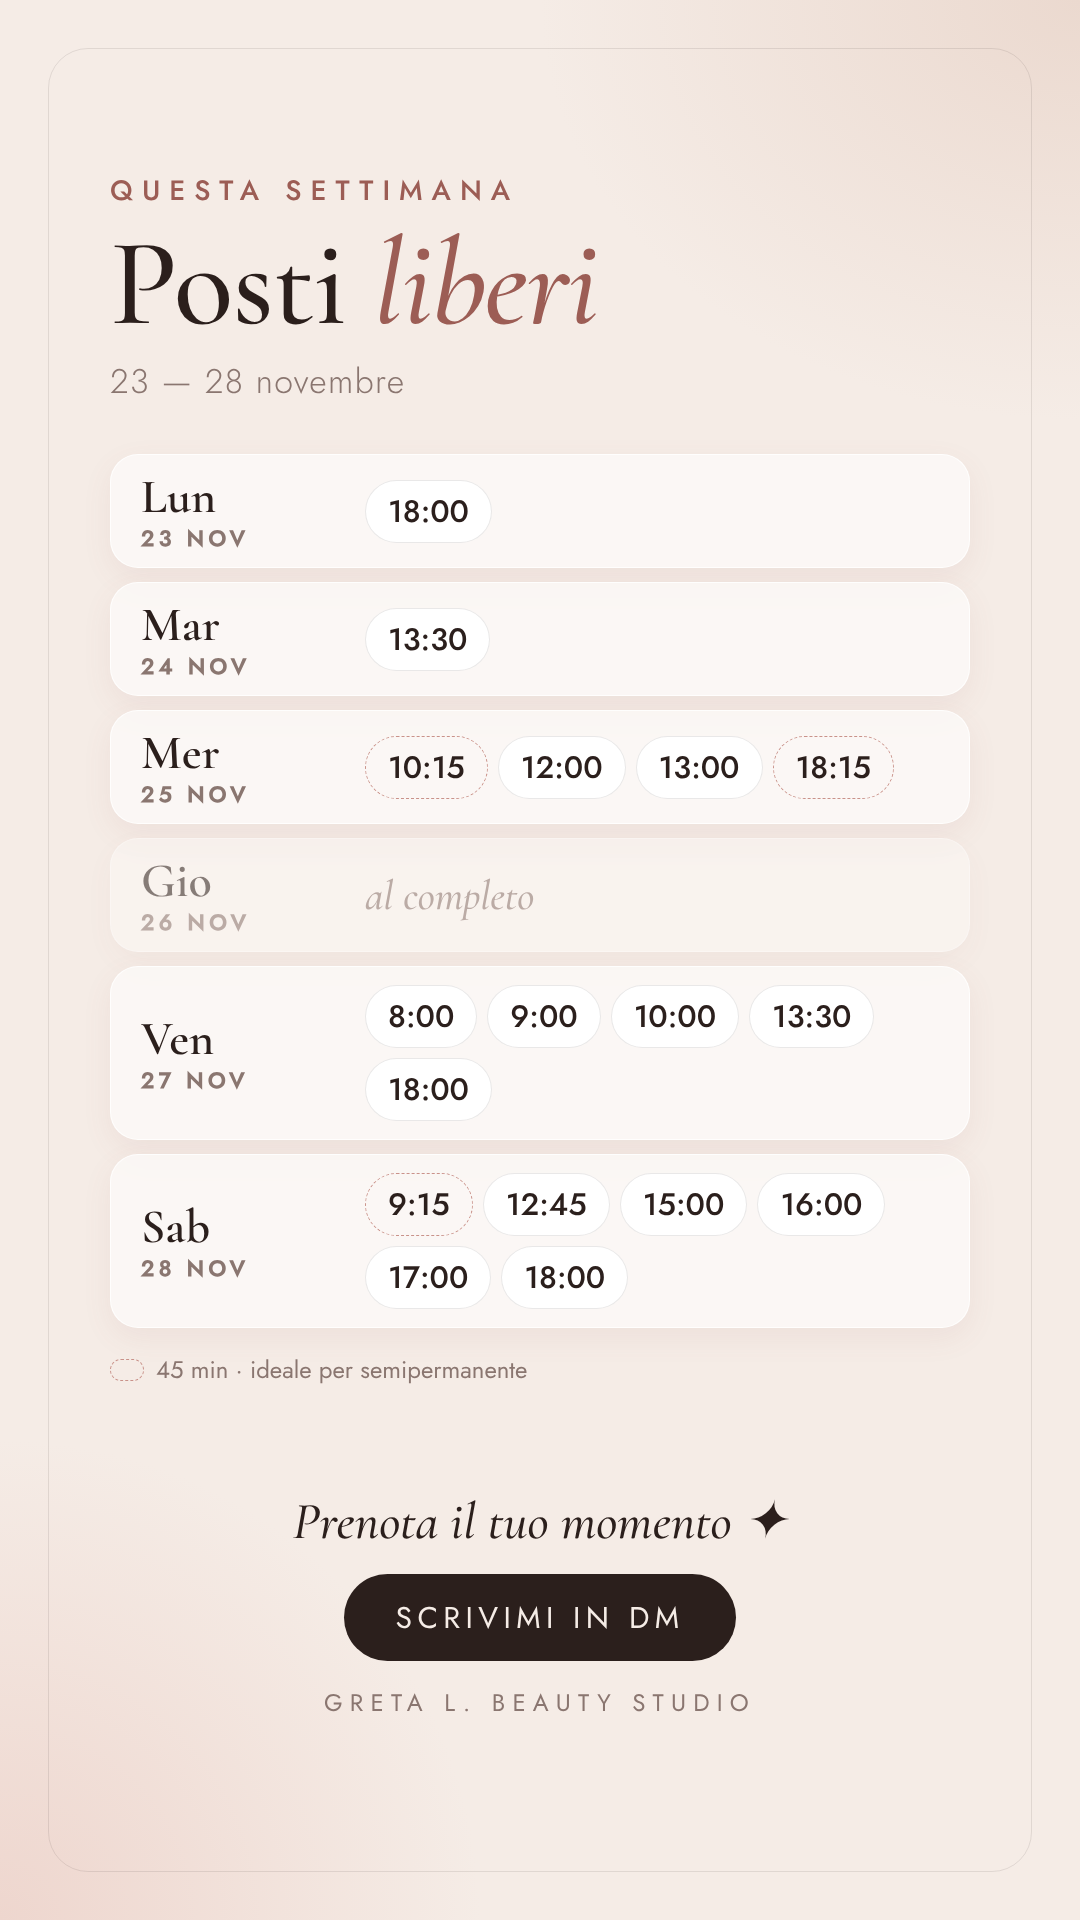
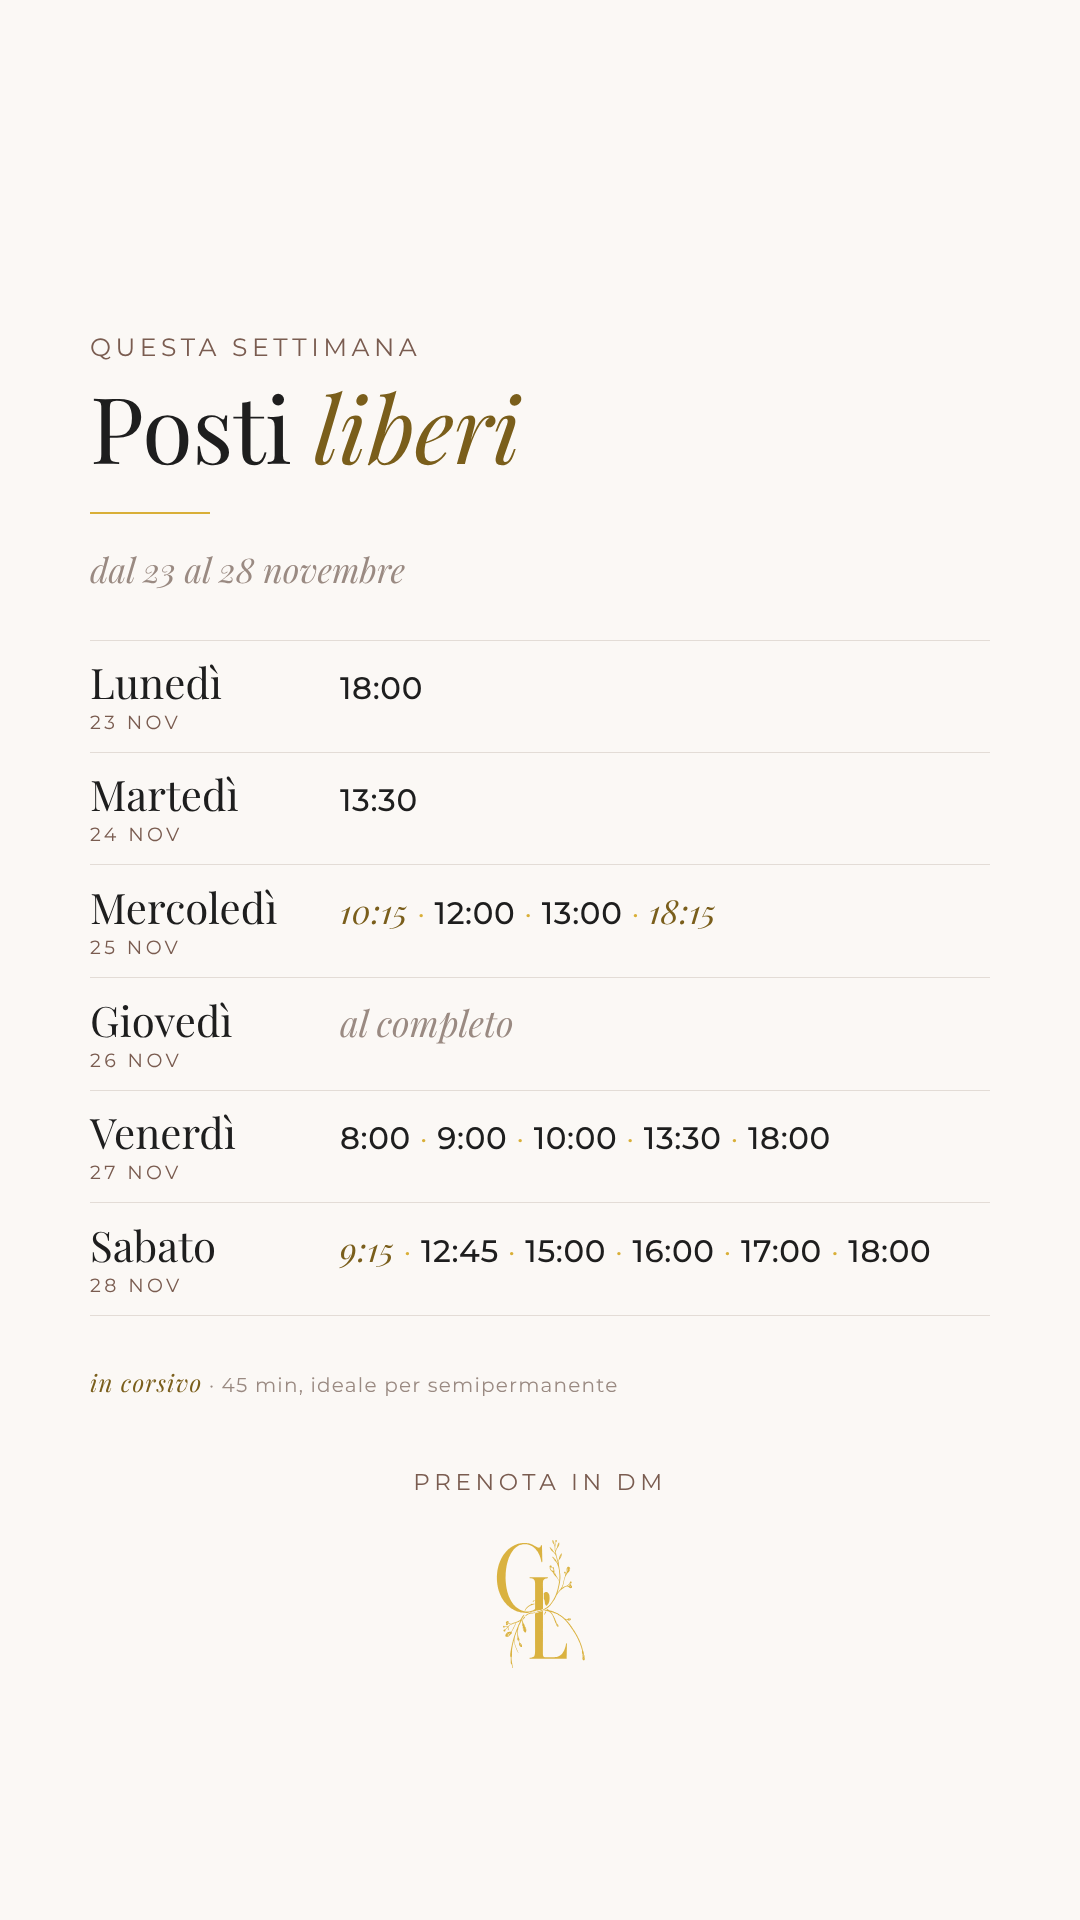
Storia posti liberi: allinea allo stile delle storie precedenti
Claude-Session: https://claude.ai/code/session_0146NrF8FZQeeDMDompU7Qy1

diff --git a/storie/posti-liberi-23-28-nov.html b/storie/posti-liberi-23-28-nov.html
@@ -3,81 +3,63 @@
 <head>
 <meta charset="utf-8">
 <title>Posti liberi</title>
-<link href="https://fonts.googleapis.com/css2?family=Cormorant+Garamond:ital,wght@0,500;0,600;1,500&family=Jost:wght@300;400;500&display=swap" rel="stylesheet">
+<link href="https://fonts.googleapis.com/css2?family=Playfair+Display:ital,wght@0,400;1,400&family=Montserrat:wght@400;500&display=swap" rel="stylesheet">
 <style>
-  /* Design system — editorial nude */
+  /* Stile storie Greta L. Beauty Studio (da storie precedenti) */
   :root{
-    --bg:#F5ECE6; --bg-2:#EBD9CF; --ink:#2B1F1C; --muted:#8A7670;
-    --rose:#C9928A; --rose-deep:#9C5D55; --card:rgba(255,255,255,.58);
-    --line:rgba(43,31,28,.10); --chip:#FFFFFF; --chip-ink:#2B1F1C;
-    --s1:8px; --s2:16px; --s3:24px; --s4:32px; --s5:48px; --s6:64px; --s7:96px;
-    --display:'Cormorant Garamond', Georgia, serif; --body:'Jost', system-ui, sans-serif;
+    --bg:#FBF8F5; --ink:#1E1E1E; --accent:#7A5E1B; --kicker:#7A5C50;
+    --gold:#D9AF37; --line:rgba(122,92,80,.18); --muted:#9A8A82;
+    --display:'Playfair Display', Georgia, serif; --body:'Montserrat', system-ui, sans-serif;
+    --x:90px;
   }
   *{box-sizing:border-box;margin:0;padding:0}
   html,body{width:1080px;height:1920px}
-  body{
-    background:
-      radial-gradient(900px 700px at 100% 0%, var(--bg-2) 0%, transparent 60%),
-      radial-gradient(800px 800px at 0% 100%, #EED6CE 0%, transparent 60%),
-      var(--bg);
-    color:var(--ink); font-family:var(--body); overflow:hidden; position:relative;
-  }
-  .frame{position:absolute; inset:var(--s5); border:1.5px solid var(--line); border-radius:40px}
-  .wrap{position:relative; height:100%; padding:170px 110px 200px; display:flex; flex-direction:column}
-  .kicker{font-size:28px; letter-spacing:.32em; text-transform:uppercase; color:var(--rose-deep); font-weight:500}
-  h1{font-family:var(--display); font-weight:500; font-size:124px; line-height:.92; margin-top:var(--s2); letter-spacing:-.01em}
-  h1 em{color:var(--rose-deep)}
-  .dates{margin-top:var(--s2); font-size:34px; color:var(--muted); font-weight:300; letter-spacing:.04em}
-  .days{margin-top:var(--s5); display:flex; flex-direction:column; gap:14px}
-  .day{
-    display:grid; grid-template-columns:200px 1fr; align-items:center; gap:var(--s3);
-    background:var(--card); border:1px solid rgba(255,255,255,.8);
-    border-radius:28px; padding:18px 30px; backdrop-filter:blur(12px);
-    box-shadow:0 10px 30px rgba(156,93,85,.08);
-  }
-  .dname{font-family:var(--display); font-size:48px; font-weight:600; line-height:1}
-  .dnum{display:block; font-family:var(--body); font-size:22px; letter-spacing:.2em; color:var(--muted); margin-top:6px; text-transform:uppercase}
-  .slots{display:flex; flex-wrap:wrap; gap:10px}
-  .slot{background:var(--chip); color:var(--chip-ink); font-size:31px; font-weight:500; padding:8px 22px; border-radius:999px; border:1px solid var(--line)}
-  .slot.short{background:transparent; border:1.5px dashed var(--rose)}
-  .day.full{opacity:.55}
-  .full-label{font-family:var(--display); font-style:italic; font-size:42px; color:var(--muted)}
-  .note{margin-top:var(--s3); font-size:24px; color:var(--muted); display:flex; align-items:center; gap:12px}
-  .note i{display:inline-block; width:34px; height:22px; border-radius:999px; border:1.5px dashed var(--rose)}
-  .cta{margin-top:auto; text-align:center}
-  .cta p{font-family:var(--display); font-style:italic; font-size:52px; line-height:1.1}
-  .btn{display:inline-block; margin-top:var(--s3); background:var(--ink); color:var(--bg); font-size:30px; letter-spacing:.18em; text-transform:uppercase; padding:22px 52px; border-radius:999px}
-  .brand{margin-top:var(--s3); font-size:24px; letter-spacing:.3em; text-transform:uppercase; color:var(--muted)}
+  body{background:var(--bg); color:var(--ink); font-family:var(--body); position:relative; overflow:hidden}
+  .kicker{position:absolute; left:var(--x); top:332px; font-size:25px; letter-spacing:.18em; text-transform:uppercase; color:var(--kicker); font-weight:400}
+  h1{position:absolute; left:var(--x); top:378px; font-family:var(--display); font-weight:400; font-size:92px; line-height:1.05; letter-spacing:-.005em}
+  h1 em{color:var(--accent)}
+  .rule{position:absolute; left:var(--x); top:512px; width:120px; height:2px; background:var(--gold)}
+  .sub{position:absolute; left:var(--x); top:546px; font-family:var(--display); font-style:italic; font-size:34px; color:var(--muted)}
+
+  .days{position:absolute; left:var(--x); right:var(--x); top:640px}
+  .day{display:grid; grid-template-columns:250px 1fr; align-items:baseline; padding:20px 0; border-top:1px solid var(--line)}
+  .day:last-child{border-bottom:1px solid var(--line)}
+  .dname{font-family:var(--display); font-size:42px; line-height:1}
+  .dnum{display:block; margin-top:10px; font-family:var(--body); font-size:19px; letter-spacing:.18em; text-transform:uppercase; color:var(--kicker)}
+  .slots{font-size:31px; font-weight:500; letter-spacing:.02em; line-height:1.55; color:var(--ink)}
+  .slots .sep{color:var(--gold); margin:0 9px; font-weight:400}
+  .slots .short{color:var(--accent); font-style:italic; font-family:var(--display); font-weight:400; font-size:33px}
+  .full{font-family:var(--display); font-style:italic; font-size:36px; color:var(--muted)}
+
+  .note{position:absolute; left:var(--x); top:1366px; font-size:20px; letter-spacing:.06em; color:var(--muted)}
+  .note em{font-family:var(--display); color:var(--accent); font-size:24px}
+  .cta{position:absolute; left:0; right:0; top:1468px; text-align:center; font-size:23px; letter-spacing:.2em; text-transform:uppercase; color:var(--kicker)}
+  .logo{position:absolute; left:50%; top:1530px; width:108px; transform:translateX(-50%)}
 </style>
 </head>
 <body>
-  <div class="frame"></div>
-  <div class="wrap">
-    <div class="kicker">Questa settimana</div>
-    <h1>Posti <em>liberi</em></h1>
-    <div class="dates">23 — 28 novembre</div>
+  <div class="kicker">Questa settimana</div>
+  <h1>Posti <em>liberi</em></h1>
+  <div class="rule"></div>
+  <div class="sub">dal 23 al 28 novembre</div>
 
-    <div class="days">
-      <div class="day"><div class="dname">Lun<span class="dnum">23 nov</span></div>
-        <div class="slots"><span class="slot">18:00</span></div></div>
-      <div class="day"><div class="dname">Mar<span class="dnum">24 nov</span></div>
-        <div class="slots"><span class="slot">13:30</span></div></div>
-      <div class="day"><div class="dname">Mer<span class="dnum">25 nov</span></div>
-        <div class="slots"><span class="slot short">10:15</span><span class="slot">12:00</span><span class="slot">13:00</span><span class="slot short">18:15</span></div></div>
-      <div class="day full"><div class="dname">Gio<span class="dnum">26 nov</span></div>
-        <div class="full-label">al completo</div></div>
-      <div class="day"><div class="dname">Ven<span class="dnum">27 nov</span></div>
-        <div class="slots"><span class="slot">8:00</span><span class="slot">9:00</span><span class="slot">10:00</span><span class="slot">13:30</span><span class="slot">18:00</span></div></div>
-      <div class="day"><div class="dname">Sab<span class="dnum">28 nov</span></div>
-        <div class="slots"><span class="slot short">9:15</span><span class="slot">12:45</span><span class="slot">15:00</span><span class="slot">16:00</span><span class="slot">17:00</span><span class="slot">18:00</span></div></div>
-    </div>
-    <div class="note"><i></i> 45 min · ideale per semipermanente</div>
-
-    <div class="cta">
-      <p>Prenota il tuo momento ✦</p>
-      <div class="btn">Scrivimi in DM</div>
-      <div class="brand">Greta L. Beauty Studio</div>
-    </div>
+  <div class="days">
+    <div class="day"><div class="dname">Lunedì<span class="dnum">23 nov</span></div>
+      <div class="slots">18:00</div></div>
+    <div class="day"><div class="dname">Martedì<span class="dnum">24 nov</span></div>
+      <div class="slots">13:30</div></div>
+    <div class="day"><div class="dname">Mercoledì<span class="dnum">25 nov</span></div>
+      <div class="slots"><span class="short">10:15</span><span class="sep">·</span>12:00<span class="sep">·</span>13:00<span class="sep">·</span><span class="short">18:15</span></div></div>
+    <div class="day"><div class="dname">Giovedì<span class="dnum">26 nov</span></div>
+      <div class="full">al completo</div></div>
+    <div class="day"><div class="dname">Venerdì<span class="dnum">27 nov</span></div>
+      <div class="slots">8:00<span class="sep">·</span>9:00<span class="sep">·</span>10:00<span class="sep">·</span>13:30<span class="sep">·</span>18:00</div></div>
+    <div class="day"><div class="dname">Sabato<span class="dnum">28 nov</span></div>
+      <div class="slots"><span class="short">9:15</span><span class="sep">·</span>12:45<span class="sep">·</span>15:00<span class="sep">·</span>16:00<span class="sep">·</span>17:00<span class="sep">·</span>18:00</div></div>
   </div>
+
+  <div class="note"><em>in corsivo</em> · 45 min, ideale per semipermanente</div>
+  <div class="cta">Prenota in DM</div>
+  <img class="logo" src="logo-gl.png" alt="Greta L. Beauty Studio">
 </body>
 </html>
